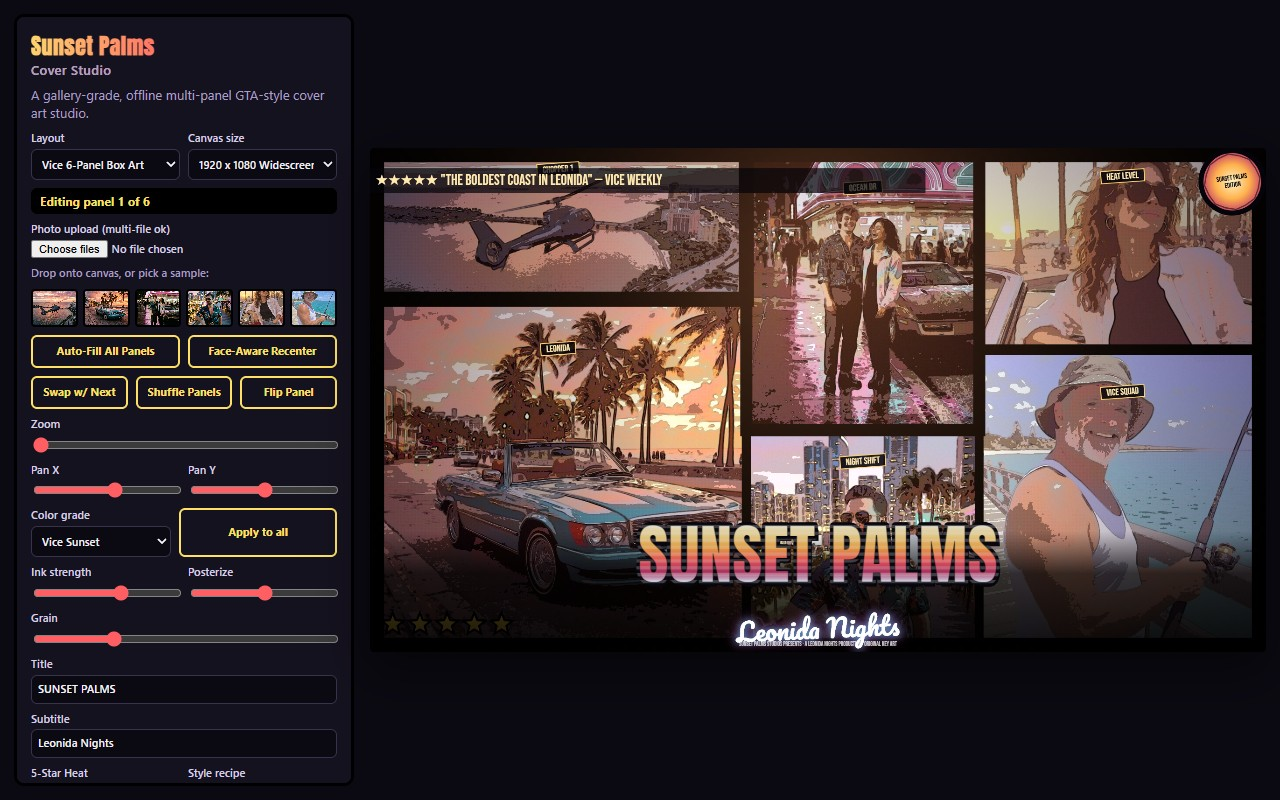
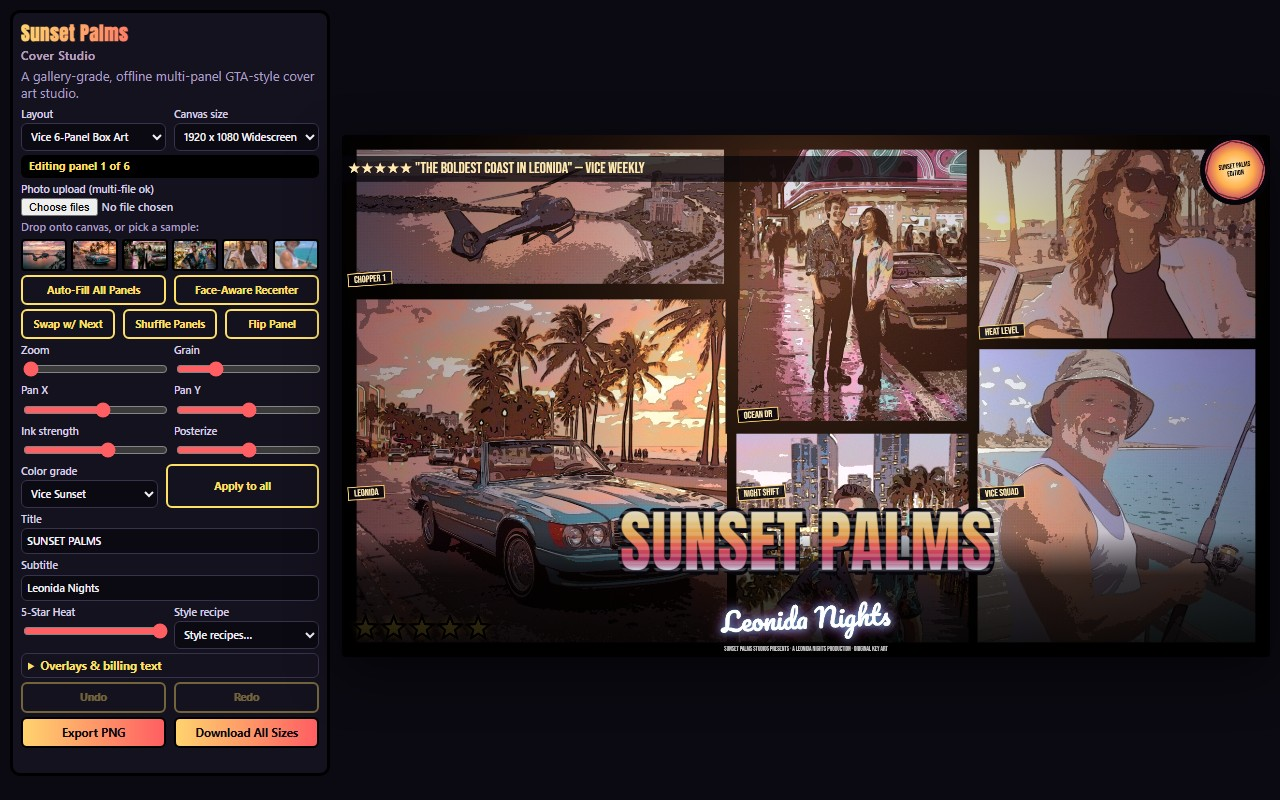
Polish Sunset Palms R3: clean callout tags, Pacifico billing clearance, clipped chrome scanlines, full editor export visibility

diff --git a/app/src/cover.js b/app/src/cover.js
@@ -4,7 +4,7 @@
 // shared by the live editor preview and the full-resolution PNG export, so what you see is what you
 // export. Pass { exportMode: true } (or render in ?shot=cover mode) to suppress the selection outline.
 
-import { LAYOUTS, bboxOf, borderFor, centroidOf, photoBoxFor } from './layouts.js';
+import { LAYOUTS, bboxOf, borderFor, photoBoxFor } from './layouts.js';
 import { GRADES, applyGrade, paintSkyBloom } from './grades.js';
 import { applyPosterInk } from './posterize.js';
 import { drawTitle, drawSubtitle, drawCalloutTag, drawHeatBar, drawSeal, drawReviewStrip, drawBillingBlock } from './typography.js';
@@ -185,11 +185,19 @@ export function drawCover(canvas, state, options = {}) {
       ctx.fillRect(box.x - 4, box.y - 4, box.w + 8, box.h + 8);
     }
     const pbox = photoBoxFor(panel);
+    // For slanted parallelogram panels, photoBoxFor's inset is the largest axis-aligned rectangle that
+    // fits fully *inside* the diagonal cuts — safe for face-anchor math, but drawing the photo only into
+    // that narrower rect leaves the sliver between it and the panel's own slanted edges unpainted,
+    // which read as a stray vertical seam line next to the polygon clip. Painting the wider bbox instead
+    // is safe here: drawImage/fillRect still respect the active polygon clip, so nothing escapes this
+    // panel's own wedge — it's only getImageData/putImageData (used by grade + ink below) that ignore
+    // clipping and must stay confined to the narrower, neighbor-safe `pbox`.
+    const drawBox = (panel.leftSlant || panel.rightSlant) ? box : pbox;
 
     if (panState.img) {
-      drawPhoto(ctx, panState.img, pbox.x, pbox.y, pbox.w, pbox.h, panState);
+      drawPhoto(ctx, panState.img, drawBox.x, drawBox.y, drawBox.w, drawBox.h, panState);
     } else {
-      drawProcedural(ctx, pbox.x, pbox.y, pbox.w, pbox.h, index);
+      drawProcedural(ctx, drawBox.x, drawBox.y, drawBox.w, drawBox.h, index);
     }
     applyGrade(ctx, pbox.x, pbox.y, pbox.w, pbox.h, gradeId, panState.gradeStrength ?? 0.42);
     if (inkEnabled) applyPosterInk(ctx, pbox.x, pbox.y, pbox.w, pbox.h, { inkStrength, posterizeLevels, grain });
@@ -237,13 +245,32 @@ export function drawCover(canvas, state, options = {}) {
   if (state.skyBloom !== false) paintSkyBloom(ctx, w, h, state.grade ?? state.panels[0]?.grade ?? 'vice-sunset');
 
   if (state.showCallouts !== false) {
+    // Every callout tag is pinned to the bottom-left corner of its own panel, inset by a fixed margin —
+    // never the top (where the critic review strip and edition seal both live) and never low enough to
+    // collide with the title block's actual rendered glyphs (which rise well above its gradient band —
+    // see titleSafeTop) or the heat bar, both of which sit flush to the overall canvas's bottom edge.
+    // Clamp each tag's y upward, clearing whichever of those it would overlap.
+    const inset = Math.max(10, shortSide * 0.012);
+    const safeTop = titleSafeTop(w, h, state);
+    const showHeatBar = state.showHeat !== false;
+    const starSize = shortSide * 0.05;
+    const heatCx = shortSide * 0.045, heatCy = h - shortSide * 0.055;
+    const heatLeft = heatCx - starSize * 0.5;
+    const heatRight = heatCx + starSize * 1.08 * 4 + starSize * 0.6;
+    const heatTop = heatCy - starSize * 0.7;
+
     panels.forEach((panel, index) => {
       if (!panel.label) return;
       const text = state.panels[index]?.label || panel.label;
-      const c = centroidOf(panel.poly);
       const box = bboxOf(panel.poly);
-      const anchorY = panel.frame === 'polaroid' ? box.y + box.h * 0.84 : box.y + box.h * 0.14;
-      drawCalloutTag(ctx, c.x, anchorY, text, panel.angle ?? -0.07);
+      const tagX = box.x + inset;
+      let tagY = box.y + box.h - inset;
+      if (Number.isFinite(safeTop)) tagY = Math.min(tagY, safeTop - inset);
+      if (showHeatBar && box.x < heatRight && box.x + box.w > heatLeft) {
+        tagY = Math.min(tagY, heatTop - inset);
+      }
+      tagY = Math.max(tagY, box.y + inset + 20); // never climb above its own panel's top edge
+      drawCalloutTag(ctx, tagX, tagY, text, panel.angle ?? -0.07);
     });
   }
 
@@ -256,6 +283,24 @@ export function drawCover(canvas, state, options = {}) {
   if (state.showBilling !== false && state.billingText) drawBillingBlock(ctx, w, h, state.billingText);
 
   ctx.restore();
+}
+
+/** How far the bottom title block's actual rendered glyphs reach above the canvas bottom — the Anton
+ * title's ascenders (plus its drop shadow) rise well above its own semi-transparent gradient band, so
+ * panel callout tags need to clear THIS line, not just the band's nominal top edge. Returns Infinity
+ * when no title/subtitle is set (nothing to clear). Mirrors drawTitleBlock's own baselineY/size math. */
+function titleSafeTop(w, h, state) {
+  const title = (state.title ?? '').trim();
+  const subtitle = (state.subtitle ?? '').trim();
+  if (!title && !subtitle) return Infinity;
+  const bandH = h * (subtitle ? 0.24 : 0.16);
+  const clearance = h * 0.0278;
+  if (title) {
+    const baselineY = h - bandH * (subtitle ? 0.58 : 0.4) - clearance;
+    return baselineY - h * 0.13 * 0.95; // Anton ascent (~0.78 of size) plus a safety margin
+  }
+  const subY = h - bandH * 0.16 - clearance;
+  return subY - h * 0.05 * 1.3; // Pacifico's glow + ascent, centered on subY
 }
 
 function drawTitleBlock(ctx, w, h, state) {
@@ -272,10 +317,14 @@ function drawTitleBlock(ctx, w, h, state) {
   ctx.fillStyle = grad;
   ctx.fillRect(0, bandY, w, bandH);
 
+  // Lift both lines a touch off the very bottom edge so Leonida Nights' descenders get clean dark
+  // breathing room above the billing credits line instead of touching it (proportional to canvas size,
+  // ~20px at a 720-tall preview).
+  const clearance = h * 0.0278;
   if (title) {
     drawTitle(ctx, w, h, title, {
       cx: w / 2,
-      baselineY: h - bandH * (subtitle ? 0.58 : 0.4),
+      baselineY: h - bandH * (subtitle ? 0.58 : 0.4) - clearance,
       maxWidth: w * 0.9,
       size: h * 0.13,
     });
@@ -283,7 +332,7 @@ function drawTitleBlock(ctx, w, h, state) {
   if (subtitle) {
     drawSubtitle(ctx, w, h, subtitle, {
       cx: w / 2,
-      y: h - bandH * 0.16,
+      y: h - bandH * 0.16 - clearance,
       maxWidth: w * 0.75,
       size: h * 0.05,
     });

diff --git a/app/style.css b/app/style.css
@@ -24,32 +24,32 @@ html, body {
 
 .app {
   display: flex;
-  gap: 16px;
+  gap: 12px;
   align-items: flex-start;
   justify-content: center;
   min-height: 100%;
-  padding: 14px;
+  padding: 10px;
   box-sizing: border-box;
 }
 
 .controls {
   display: flex;
   flex-direction: column;
-  gap: 8px;
-  width: 340px;
+  gap: 4px;
+  width: 320px;
   flex-shrink: 0;
-  max-height: calc(100vh - 28px);
+  max-height: calc(100vh - 16px);
   overflow-y: auto;
   background: #15121f;
   border: 3px solid #000;
   border-radius: 10px;
-  padding: 14px;
+  padding: 8px;
   box-sizing: border-box;
 }
 
 .controls h1 {
   margin: 0;
-  font-size: 22px;
+  font-size: 19px;
   font-weight: 900;
   letter-spacing: 0.4px;
   font-family: 'Anton', sans-serif;
@@ -58,18 +58,18 @@ html, body {
   background-clip: text;
   color: transparent;
 }
-.controls h1 span { display: block; font-size: 13px; -webkit-text-fill-color: #a99fc2; color: #a99fc2; font-family: system-ui, sans-serif; font-weight: 600; }
+.controls h1 span { display: block; font-size: 12px; -webkit-text-fill-color: #a99fc2; color: #a99fc2; font-family: system-ui, sans-serif; font-weight: 600; }
 
-.tag { margin: 0 0 2px; color: #a99fc2; }
+.tag { margin: 0 0 1px; color: #a99fc2; }
 
 .selected-label {
   margin: 0;
   font-weight: 700;
   color: #ffe066;
   background: #000;
-  padding: 5px 9px;
+  padding: 4px 8px;
   border-radius: 6px;
-  font-size: 12px;
+  font-size: 11px;
 }
 
 .row { display: flex; gap: 8px; }
@@ -78,20 +78,26 @@ html, body {
 .row.samples span { color: #a99fc2; font-weight: 600; font-size: 11px; }
 .row.toggles { flex-wrap: wrap; }
 
+.sliders-grid {
+  display: grid;
+  grid-template-columns: 1fr 1fr;
+  gap: 4px 8px;
+}
+
 label {
   display: flex;
   flex-direction: column;
-  gap: 3px;
+  gap: 2px;
   font-weight: 600;
-  font-size: 11px;
+  font-size: 10.5px;
   color: #d8d0e8;
 }
 label.grow { flex: 1; }
-label.check { flex-direction: row; align-items: center; gap: 5px; font-size: 11px; flex: 1 1 45%; }
+label.check { flex-direction: row; align-items: center; gap: 5px; font-size: 10.5px; flex: 1 1 45%; }
 
 input[type=text], select {
   font: inherit;
-  padding: 6px;
+  padding: 5px;
   border: 1px solid #39324d;
   border-radius: 6px;
   background: #0b0a12;
@@ -104,28 +110,28 @@ input[type=file] { font: inherit; color: #d8d0e8; font-size: 11px; }
 button {
   font: inherit;
   font-weight: 700;
-  padding: 7px;
+  padding: 6px;
   border: 2px solid #000;
   border-radius: 6px;
   background: #ff5e62;
   color: #0b0a12;
   cursor: pointer;
-  font-size: 11px;
+  font-size: 10.5px;
 }
 button:disabled { opacity: 0.4; cursor: default; }
 
 button.ghost { background: transparent; color: #ffe066; border-color: #ffe066; }
-button.primary { background: linear-gradient(90deg, #ffd36e, #ff5e62); font-size: 12px; }
+button.primary { background: linear-gradient(90deg, #ffd36e, #ff5e62); font-size: 11.5px; }
 
-.thumbs { display: grid; grid-template-columns: repeat(6, 1fr); gap: 5px; }
-.thumbs .thumb { padding: 0; border: 2px solid #000; border-radius: 4px; overflow: hidden; background: #000; height: 38px; }
+.thumbs { display: grid; grid-template-columns: repeat(6, 1fr); gap: 4px; }
+.thumbs .thumb { padding: 0; border: 2px solid #000; border-radius: 4px; overflow: hidden; background: #000; height: 32px; }
 .thumbs .thumb img { width: 100%; height: 100%; object-fit: cover; display: block; }
 
-details.overlays { border: 1px solid #39324d; border-radius: 6px; padding: 6px 8px; }
-details.overlays summary { cursor: pointer; font-weight: 700; color: #ffe066; font-size: 12px; }
-details.overlays label { margin-top: 6px; }
+details.overlays { border: 1px solid #39324d; border-radius: 6px; padding: 4px 6px; }
+details.overlays summary { cursor: pointer; font-weight: 700; color: #ffe066; font-size: 11.5px; }
+details.overlays label { margin-top: 4px; }
 
-#status { min-height: 1.1em; color: #3ddc97; font-weight: 600; margin: 2px 0 0; font-size: 11px; }
+#status { min-height: 1.1em; color: #3ddc97; font-weight: 600; margin: 1px 0 0; font-size: 10.5px; }
 
 .stage {
   display: flex;

diff --git a/app/src/typography.js b/app/src/typography.js
@@ -125,17 +125,20 @@ export function drawSubtitle(ctx, w, h, text, { cx, y, maxWidth, size, tilt = -0
   ctx.restore();
 }
 
-/** An angled comic role/location callout tag (e.g. "CHOPPER 1"), Bebas Neue on a tilted ink ribbon. */
+/** An angled comic role/location callout tag (e.g. "CHOPPER 1"), Bebas Neue on a tilted ink ribbon.
+ * `(x, y)` is the tag's BOTTOM-LEFT anchor point (before rotation) — callers always pin these to the
+ * bottom-left corner of a panel so tags never climb into the top-of-frame review strip / edition seal. */
 export function drawCalloutTag(ctx, x, y, text, angle = -0.08) {
   const str = (text ?? '').trim().toUpperCase();
   if (!str) return;
   ctx.save();
-  ctx.translate(x, y);
-  ctx.rotate(angle);
   ctx.font = `400 ${Math.max(14, Math.min(26, 20))}px 'Bebas Neue'`;
   const padX = 12, padY = 6;
   const tw = ctx.measureText(str).width;
   const bw = tw + padX * 2, bh = 26;
+  // Translate so the tag's own bottom-left corner lands at (x, y), then rotate about its center.
+  ctx.translate(x + bw / 2, y - bh / 2);
+  ctx.rotate(angle);
   ctx.fillStyle = 'rgba(5,4,10,0.86)';
   ctx.strokeStyle = '#ffd36e';
   ctx.lineWidth = 2;
@@ -150,18 +153,18 @@ export function drawCalloutTag(ctx, x, y, text, angle = -0.08) {
   ctx.restore();
 }
 
-/** A 5-star heat/wanted-level bar, bold ink stars with a warm gradient fill. */
+/** A 5-star heat/wanted-level bar: active stars glow luminous gold, inactive stars stay dim ink. */
 export function drawHeatBar(ctx, x, y, starSize, heat = 5) {
   ctx.save();
   ctx.translate(x, y);
   for (let i = 0; i < 5; i++) {
     const sx = i * starSize * 1.08;
-    drawStar(ctx, sx, 0, starSize * 0.46, i < heat ? '#ffcf3f' : 'rgba(255,255,255,0.14)');
+    drawStar(ctx, sx, 0, starSize * 0.46, i < heat);
   }
   ctx.restore();
 }
 
-function drawStar(ctx, cx, cy, r, fill) {
+function drawStar(ctx, cx, cy, r, active) {
   ctx.save();
   ctx.translate(cx, cy);
   ctx.beginPath();
@@ -174,8 +177,21 @@ function drawStar(ctx, cx, cy, r, fill) {
     ctx.lineTo(ix, iy);
   }
   ctx.closePath();
-  ctx.fillStyle = fill;
+  if (active) {
+    // Bright luminous gold fill with a warm amber outer glow.
+    ctx.shadowColor = 'rgba(255,183,59,0.95)';
+    ctx.shadowBlur = 14;
+    ctx.fillStyle = '#ffd54f';
+  } else {
+    ctx.shadowBlur = 0;
+    ctx.fillStyle = 'rgba(255,255,255,0.14)';
+  }
   ctx.fill();
+  // Re-fill once more so the glow-softened gold reads fully opaque and luminous, not washed out.
+  if (active) ctx.fill();
+  // Crisp dark ink outline, drawn after the glow is cleared so the stroke itself stays sharp.
+  ctx.shadowBlur = 0;
+  ctx.shadowColor = 'transparent';
   ctx.lineWidth = Math.max(1, r * 0.18);
   ctx.strokeStyle = '#000';
   ctx.stroke();

diff --git a/app/index.html b/app/index.html
@@ -41,10 +41,13 @@
       <button id="flip" type="button" class="ghost">Flip Panel</button>
     </div>
 
-    <label>Zoom <input id="zoom" type="range" min="1" max="3" step="0.01" value="1"></label>
-    <div class="row">
+    <div class="sliders-grid">
+      <label>Zoom <input id="zoom" type="range" min="1" max="3" step="0.01" value="1"></label>
+      <label>Grain <input id="grain" type="range" min="0" max="1" step="0.01" value="0.25"></label>
       <label>Pan X <input id="panX" type="range" min="-1" max="1" step="0.01" value="0"></label>
       <label>Pan Y <input id="panY" type="range" min="-1" max="1" step="0.01" value="0"></label>
+      <label>Ink strength <input id="ink" type="range" min="0" max="1" step="0.01" value="0.6"></label>
+      <label>Posterize <input id="posterize" type="range" min="2" max="8" step="1" value="5"></label>
     </div>
 
     <div class="row">
@@ -53,12 +56,6 @@
       </label>
       <button id="applyAllGrade" type="button" class="ghost">Apply to all</button>
     </div>
-
-    <div class="row">
-      <label>Ink strength <input id="ink" type="range" min="0" max="1" step="0.01" value="0.6"></label>
-      <label>Posterize <input id="posterize" type="range" min="2" max="8" step="1" value="5"></label>
-    </div>
-    <label>Grain <input id="grain" type="range" min="0" max="1" step="0.01" value="0.25"></label>
 
     <label>Title <input id="title" type="text" maxlength="40" value="SUNSET PALMS"></label>
     <label>Subtitle <input id="subtitle" type="text" maxlength="60" value="Leonida Nights"></label>
